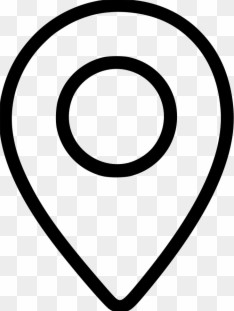
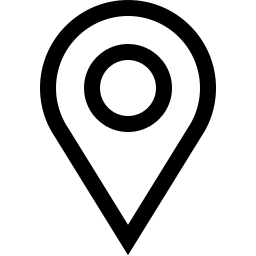
markers now always draws map + markers, new markers

diff --git a/static/javascript/Markers.js b/static/javascript/Markers.js
@@ -64,8 +64,8 @@ function drawMap() {
     xhttp.onreadystatechange = function () {
         if (this.readyState === 4 && this.status === 200) {
             locmap = JSON.parse(this.responseText);
-            //locmap["friends"] = [{"x": 100, "y": 100}, {"x": 200, "y": 200}, {"x": 250, "y": 100}, {"x": 150, "y": 500}];
-            //locmap["others"] = [{"x": 300, "y": 300}, {"x": 400, "y": 400}];
+            locmap["friends"] = [{"x": 100, "y": 100}, {"x": 200, "y": 200}, {"x": 250, "y": 100}, {"x": 150, "y": 500}];
+            locmap["others"] = [{"x": 300, "y": 300}, {"x": 400, "y": 400}];
             mapSprite.onload = function () {
                 context.drawImage(mapSprite, 0, 0, canvasWidth, canvasHeight);
                 for (let i = 0; i < locmap["others"].length; i++) {
@@ -199,16 +199,20 @@ function drawSetUp() {
 
     friendSprite = new Image();
     friendSprite.onload = function(){}
-    friendSprite.src = "https://upload.wikimedia.org/wikipedia/commons/thumb/f/fb/Map_pin_icon_green.svg/1504px-Map_pin_icon_green.svg.png";
+    friendSprite.src = mediaUrl + "map_pins/friendpin.png";
+    //friendSprite.src = "https://upload.wikimedia.org/wikipedia/commons/thumb/f/fb/Map_pin_icon_green.svg/1504px-Map_pin_icon_green.svg.png";
     randomSprite = new Image();
     randomSprite.onload = function(){}
-    randomSprite.src = "https://img.favpng.com/20/11/24/google-map-maker-google-maps-computer-icons-map-collection-png-favpng-BNWkuCw9tdsBqxLR2PTzGbS6V.jpg";
+    randomSprite.src = mediaUrl + "map_pins/randompin.png";
+    //randomSprite.src = "https://img.favpng.com/20/11/24/google-map-maker-google-maps-computer-icons-map-collection-png-favpng-BNWkuCw9tdsBqxLR2PTzGbS6V.jpg";
     markerSpritePublic = new Image();
     markerSpritePublic.onload = function(){}
-    markerSpritePublic.src = "https://www.pinclipart.com/picdir/middle/126-1269086_google-map-marker-red-peg-png-image-red.png";
+    markerSpritePublic.src = mediaUrl + "map_pins/userpin.png";
+    //markerSpritePublic.src = "https://www.pinclipart.com/picdir/middle/126-1269086_google-map-marker-red-peg-png-image-red.png";
     markerSpritePrivate = new Image()
     markerSpritePrivate.onload = function(){}
-    markerSpritePrivate.src = "https://cdn-icons-png.flaticon.com/512/446/446075.png";
+    markerSpritePrivate.src = mediaUrl + "map_pins/privatepin.png"
+    //markerSpritePrivate.src = "https://cdn-icons-png.flaticon.com/512/446/446075.png";
 
     drawMap();
 
